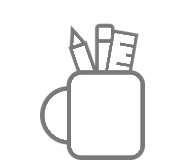
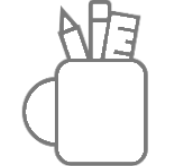
Made changes to first pages

Changed region(s): [[0.1075, 0.0, 0.8065, 1.0]]

diff --git a/index.html b/index.html
@@ -30,9 +30,11 @@
             <div id="aboutme">
                 <h2>Who Am I?</h2>
                 <br>
-                <img class="round" src="img/face.png"></img>
+                <img class="round" src="img/Logo.png"></img>
                 <br>
-                <p>I am a recent graduate from the University of Idaho's Human Factor's Master's program. [needs to be finished]</p>
+                <p>I am a recent graduate from the University of Idaho, who just moved back to Orlando, Florida.
+                  I have a passion for technology and research focused in the field of robotics.
+                  In my free time I love to boulder and find new adventures.</p>
             </div>
 
             <div id="selling">
@@ -41,29 +43,44 @@
             </div>
             <div id="skills">
                 <div id="thirds">
+                    <img class="third" src="img/computer.png"></img>
+                    <br>
+                    <br>
+                    <h3>
+                      Research
+                    </h3>
+                </div>
+                <div id="thirds">
+                    <img class="third" src="img/dude.png"></img>
+                    <br>
+                    <br>
+                    <h3>
+                      Evaluation
+                    </h3>
+                </div>
+                <div id="thirds">
                     <img class="third" src="img/cup.png"></img>
-                </div>
-                <div id="thirds">
-                    <img class="third" src="img/screen.png"></img>
-                </div>
-                <div id="thirds">
-                    <img class="third" src="img/test.png"></img>
+                    <br>
+                    <br>
+                    <h3>
+                      Design
+                    </h3>
                 </div>
                 <div id="thirdstext">
                     <p>
-                        Task Analysis, User Focus Groups, Questionnaires & Surveys, Mood Boards, Adobe Creative Suite, 3D Modeling
+                      User Focus Groups, Questionnaires and Surveys, User Interviews, User Studies, Competitor Analysis,  Literature Review, A/B Testing,
                         <br>
                     </p>
                 </div>
                 <div id="thirdstext">
                     <p>
-                        Personas, Wireframe Prototyping, Iterative Design, html + css (beginner)
-                        <br>
+                      Think Aloud Protocol, Task Analysis, Heuristic Evaluations, Front-End Analysis, Eyetracking, Data Analysis through  Excel, SPSS, and R
                     </p>
                 </div>
                 <div id="thirdstext">
                     <p>
-                      Think Aloud Protocol, A/B Testing, Heuristic Evaluations, Front-End Analysis, Eyetracking, Data Analysis through  Excel, SPSS, and R
+                      Personas, Wireframe Prototyping, Iterative Design, Mood Boards, Adobe Creative Suite, 3D Modeling, html + css (beginner)
+                        <br>
                     </p>
                 </div>
             </div>

diff --git a/style.css b/style.css
@@ -306,8 +306,15 @@ h2 {
   color: #595959;
 }
 
+h3 {
+  font-family: 'Dancing Script', cursive;
+  display: inline;
+  font-size: 1.5em;
+  color: #595959;
+}
+
 img.round {
-  width: 150px;
+  width: 300px;
   padding: 40px;
   height: auto;
 }
